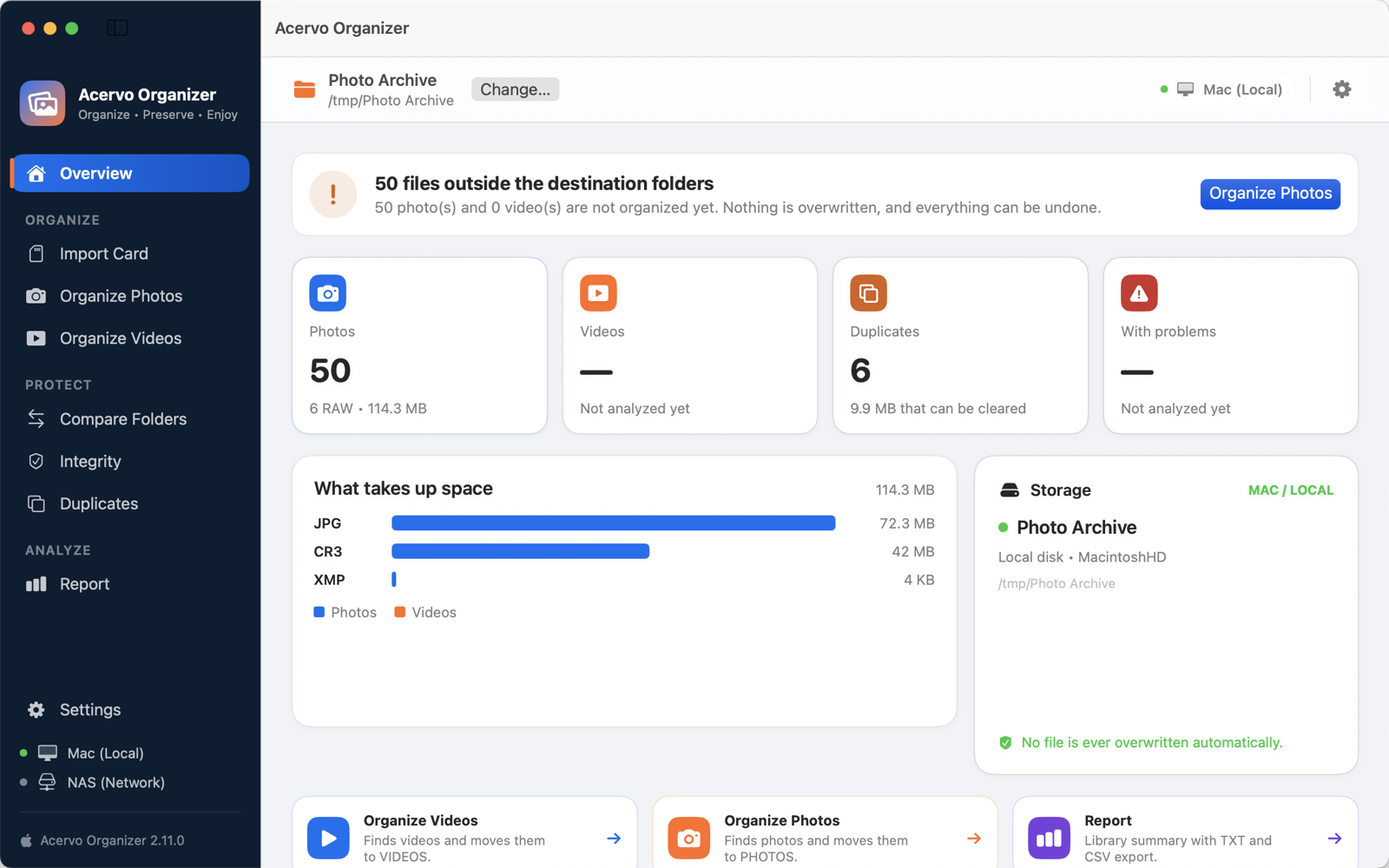
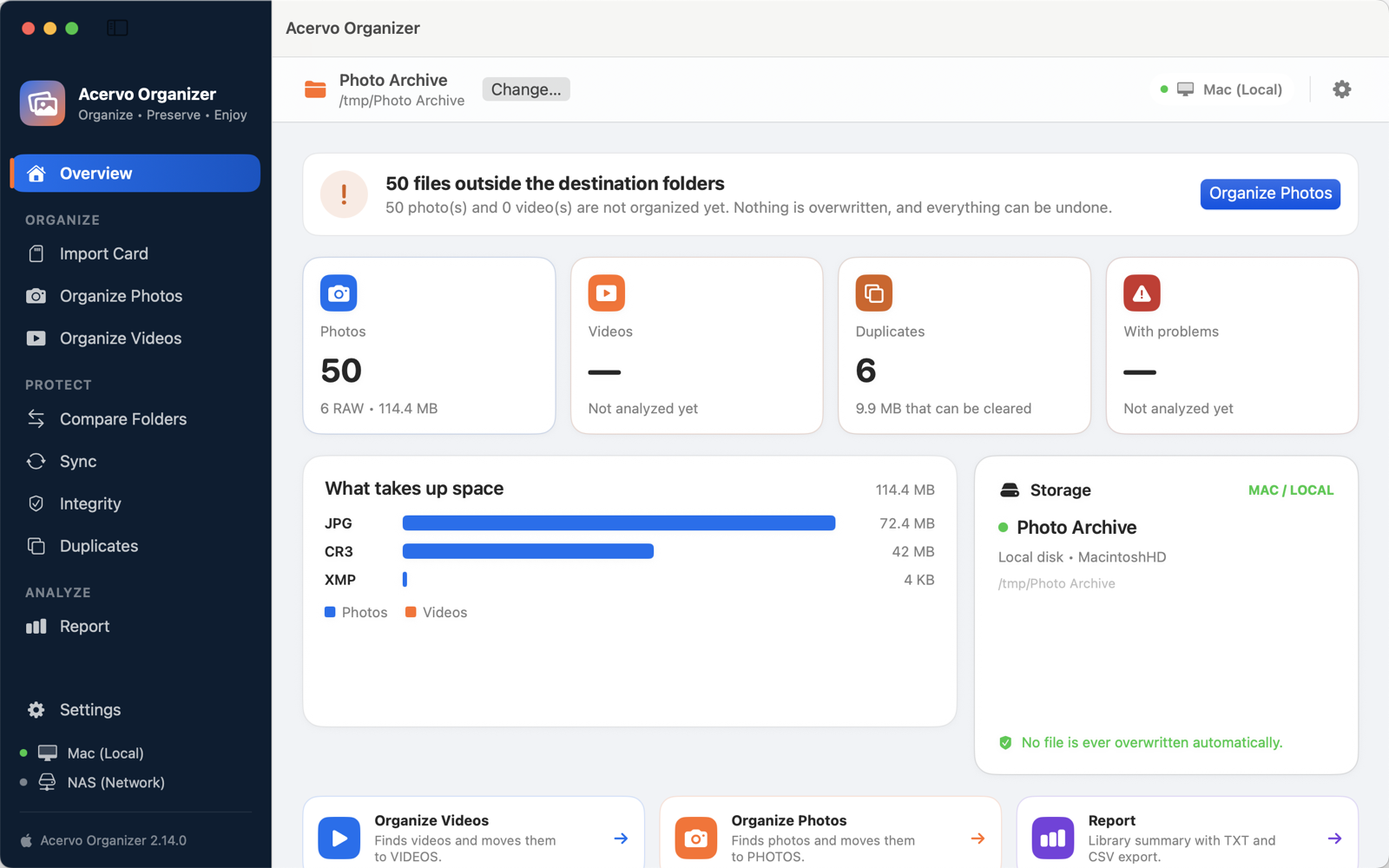
Site: 2.14 publicada (dois sentidos, tarefas, backup agendado e preço novo)
- Sincronização e Backup a R$ 69,90; a compra lista Espelho, Adicionar e
  atualizar, Dois sentidos, tarefas salvas e backup agendado (recursos, preço,
  FAQ, dados estruturados e suporte, pt e en).
- Galeria com as capturas da 2.14 e a tela Sincronizar, em 2×2 (uma coluna no
  celular, sem rolagem lateral).

diff --git a/index.html b/index.html
@@ -65,7 +65,7 @@ document.addEventListener('click', function (e) {
 <link rel="preconnect" href="https://fonts.googleapis.com">
 <link rel="preconnect" href="https://fonts.gstatic.com" crossorigin>
 <link href="https://fonts.googleapis.com/css2?family=Bricolage+Grotesque:opsz,wght@12..96,600;12..96,700;12..96,800&family=Instrument+Sans:wght@400;600;700&display=swap" rel="stylesheet">
-<link rel="stylesheet" href="style.css?v=2026-11-10">
+<link rel="stylesheet" href="style.css?v=2026-11-17">
 <script type="application/ld+json">
 {
   "@context": "https://schema.org",
@@ -78,7 +78,7 @@ document.addEventListener('click', function (e) {
   "url": "https://acervoorganizer.ravendronevideos.com.br/",
   "downloadUrl": "https://apps.apple.com/app/id6821982992?mt=12",
   "inLanguage": "pt-BR",
-  "offers": { "@type": "Offer", "price": "0", "priceCurrency": "BRL", "description": "Download grátis com 14 dias de teste. Desbloqueio único por R$ 89,90 no Brasil; sincronização de pastas na compra única Sincronização e Backup, R$ 49,90." },
+  "offers": { "@type": "Offer", "price": "0", "priceCurrency": "BRL", "description": "Download grátis com 14 dias de teste. Desbloqueio único por R$ 89,90 no Brasil; sincronização de pastas na compra única Sincronização e Backup, R$ 69,90." },
   "author": { "@type": "Person", "name": "Leonardo Nogueira" }
 }
 </script>
@@ -229,6 +229,7 @@ document.addEventListener('click', function (e) {
       <figure><img src="assets/capturas/organizar-fotos.png" alt="Tela Organizar Fotos com o resultado da análise" loading="lazy" onerror="this.closest('figure').remove()"><figcaption>A análise mostra fotos, RAW e XMP antes de qualquer movimentação.</figcaption></figure>
       <figure><img src="assets/capturas/simulacao.png" alt="Janela de simulação com o destino de cada arquivo" loading="lazy" onerror="this.closest('figure').remove()"><figcaption>A simulação lista o destino de cada arquivo.</figcaption></figure>
       <figure><img src="assets/capturas/duplicatas.png" alt="Tela Duplicatas com grupos de arquivos idênticos" loading="lazy" onerror="this.closest('figure').remove()"><figcaption>Duplicatas encontradas pelo conteúdo, com a cópia mais organizada mantida.</figcaption></figure>
+      <figure><img src="assets/capturas/sincronizar.png" alt="Tela Sincronizar com tarefas salvas, agenda e histórico" loading="lazy" onerror="this.closest('figure').remove()"><figcaption>Tarefas salvas e backup agendado, com o histórico de cada execução.</figcaption></figure>
     </div>
   </div>
 </section>
@@ -242,7 +243,7 @@ document.addEventListener('click', function (e) {
       <div><dt>Duplicatas</dt><dd>Arquivos idênticos encontrados pelo conteúdo. As cópias extras vão para a pasta DUPLICADOS.</dd></div>
       <div><dt>Integridade</dt><dd>Arquivos vazios, fotos corrompidas, vídeos incompletos e extensões trocadas, com quarentena opcional. Encontra também as pastas vazias e as remove, se você quiser.</dd></div>
       <div><dt>Comparar pastas</dt><dd>Confira o acervo contra o backup e veja o que falta em cada lado, sem alterar nada.</dd></div>
-      <div><dt>Sincronizar pastas</dt><dd>Deixe o backup no disco externo ou no NAS igual ao acervo, em Espelho ou Adicionar e atualizar. Você revisa o plano antes, cada cópia é conferida por SHA-256 e o que seria substituído ou removido vai para a pasta acervo_versoes. Pode ser desfeita.</dd></div>
+      <div><dt>Sincronizar pastas</dt><dd>Deixe o backup no disco externo ou no NAS igual ao acervo, em Espelho, Adicionar e atualizar ou Dois sentidos (o Mac e o notebook de viagem). Salve tarefas e programe o backup: a cada N horas, em dias e horário ou ao conectar o disco, com o app na barra de menus. Você revisa o plano antes, cada cópia é conferida por SHA-256 e o que seria substituído ou removido vai para a pasta acervo_versoes. Pode ser desfeita.</dd></div>
       <div><dt>Relatório do acervo</dt><dd>Quantidades, formatos, maiores arquivos e pastas mais cheias, com exportação em TXT e CSV.</dd></div>
       <div><dt>Seguro em NAS</dt><dd>Verifica a conexão durante as operações longas e para com segurança se o volume cair.</dd></div>
       <div><dt>Importar cartão</dt><dd>Cópia do cartão conferida por checksum (SHA-256), com segunda cópia opcional em outro disco e pastas por data e sessão. O cartão é só lido.</dd></div>
@@ -276,8 +277,8 @@ document.addEventListener('click', function (e) {
       </div>
       <div class="extra">
         <h3>Sincronização e Backup <span class="opcional">opcional</span></h3>
-        <p class="valor-extra">R$ 49,90 <small>uma vez</small></p>
-        <p>Deixa o backup igual ao acervo, em Espelho ou Adicionar e atualizar, com o plano revisado antes. É separada do desbloqueio, e o teste de 14 dias cobre as duas.</p>
+        <p class="valor-extra">R$ 69,90 <small>uma vez</small></p>
+        <p>Espelho, Adicionar e atualizar e Dois sentidos, tarefas salvas e backup agendado, sempre com o plano revisado antes. É separada do desbloqueio, e o teste de 14 dias cobre as duas.</p>
       </div>
     </div>
     <p class="discreto" style="margin-top:14px;font-size:.92rem">Preço no Brasil. Em outros países, vale o preço exibido pela App Store.</p>
@@ -342,10 +343,10 @@ document.addEventListener('click', function (e) {
   <div class="largura estreito">
     <h2>Perguntas frequentes</h2>
     <div class="perguntas">
-      <details><summary>O Acervo Organizer é grátis?</summary><p>O download é grátis e as primeiras duas semanas vêm com tudo liberado. Depois, análise, simulação, duplicatas, integridade, comparação, relatórios e desfazer continuam grátis. Para continuar organizando e movendo arquivos, o desbloqueio custa R$ 89,90 uma única vez, sem assinatura. A sincronização de pastas em Espelho ou Adicionar e atualizar é uma compra única à parte, de R$ 49,90.</p></details>
+      <details><summary>O Acervo Organizer é grátis?</summary><p>O download é grátis e as primeiras duas semanas vêm com tudo liberado. Depois, análise, simulação, duplicatas, integridade, comparação, relatórios e desfazer continuam grátis. Para continuar organizando e movendo arquivos, o desbloqueio custa R$ 89,90 uma única vez, sem assinatura. A sincronização de pastas (Espelho, Dois sentidos, tarefas e backup agendado) é uma compra única à parte, de R$ 69,90.</p></details>
       <details><summary>O app pode apagar ou estragar meus arquivos?</summary><p>Não. Ele nunca apaga e nunca sobrescreve. Duplicatas e arquivos com problema são movidos para pastas próprias, e toda organização pode ser desfeita. Entre discos diferentes, o app copia, confere e só então remove a origem.</p></details>
       <details><summary>Funciona com NAS?</summary><p>Sim, com o volume do NAS montado no Mac, como Synology e QNAP pela rede. O app verifica a conexão durante as operações longas e para com segurança se ela cair; o que já foi movido fica registrado e pode ser desfeito.</p></details>
-      <details><summary>O app faz backup do acervo?</summary><p>Ele mantém o backup em dia: compara o acervo com a pasta do backup, num disco externo ou no NAS, e deixa as duas iguais. Copiar para o backup o que falta nele vem no desbloqueio. Os modos Espelho e Adicionar e atualizar ficam na compra Sincronização e Backup, de R$ 49,90 uma única vez. Antes de qualquer cópia você revisa o plano, cada cópia é conferida por SHA-256 e nada é apagado: versões substituídas e arquivos que só existiam no backup vão para a pasta acervo_versoes. A sincronização pode ser desfeita.</p></details>
+      <details><summary>O app faz backup do acervo?</summary><p>Ele mantém o backup em dia: compara o acervo com a pasta do backup, num disco externo ou no NAS, e deixa as duas iguais. Copiar para o backup o que falta nele vem no desbloqueio. Os modos Espelho, Adicionar e atualizar e Dois sentidos, as tarefas salvas e o backup agendado (a cada N horas, em dias e horário ou ao conectar o disco) ficam na compra Sincronização e Backup, de R$ 69,90 uma única vez. Antes de qualquer cópia você revisa o plano, cada cópia é conferida por SHA-256 e nada é apagado: versões substituídas e arquivos que só existiam no backup vão para a pasta acervo_versoes. A sincronização pode ser desfeita.</p></details>
       <details><summary>Funciona no meu Mac?</summary><p>Funciona em Macs com macOS 13 ou mais novo, com processador Apple ou Intel.</p></details>
       <details><summary>E o meu catálogo do Lightroom?</summary><p>Os arquivos XMP acompanham as fotos. Se as pastas já estão num catálogo do Lightroom Classic, mover as fotos fora do Lightroom faz o catálogo perder o caminho; depois de organizar, use no Lightroom a opção de localizar a pasta ausente e aponte o novo lugar.</p></details>
       <details><summary>Quais formatos são reconhecidos?</summary><p>Fotos em JPG, HEIC, PNG, TIFF e nos principais formatos RAW (CR3, CR2, NEF, ARW, RAF, DNG, ORF, RW2 e outros), com XMP. Vídeos em MOV, MP4, MTS, MKV, AVI e outros, com .SRT, .LRF, .LRV e .THM. Vídeos 360° da DJI (.OSV) e da Insta360 (.insv e .insp).</p></details>
@@ -392,10 +393,10 @@ document.addEventListener('click', function (e) {
   "@context": "https://schema.org",
   "@type": "FAQPage",
   "mainEntity": [
-    { "@type": "Question", "name": "O Acervo Organizer é grátis?", "acceptedAnswer": { "@type": "Answer", "text": "O download é grátis e as primeiras duas semanas vêm com tudo liberado. Depois, análise, simulação, duplicatas, integridade, comparação, relatórios e desfazer continuam grátis. Para continuar organizando e movendo arquivos, o desbloqueio custa R$ 89,90 uma única vez, sem assinatura. A sincronização de pastas em Espelho ou Adicionar e atualizar é uma compra única à parte, de R$ 49,90." } },
+    { "@type": "Question", "name": "O Acervo Organizer é grátis?", "acceptedAnswer": { "@type": "Answer", "text": "O download é grátis e as primeiras duas semanas vêm com tudo liberado. Depois, análise, simulação, duplicatas, integridade, comparação, relatórios e desfazer continuam grátis. Para continuar organizando e movendo arquivos, o desbloqueio custa R$ 89,90 uma única vez, sem assinatura. A sincronização de pastas (Espelho, Dois sentidos, tarefas e backup agendado) é uma compra única à parte, de R$ 69,90." } },
     { "@type": "Question", "name": "O app pode apagar ou estragar meus arquivos?", "acceptedAnswer": { "@type": "Answer", "text": "Não. Ele nunca apaga e nunca sobrescreve. Duplicatas e arquivos com problema são movidos para pastas próprias, e toda organização pode ser desfeita." } },
     { "@type": "Question", "name": "Funciona com NAS?", "acceptedAnswer": { "@type": "Answer", "text": "Sim, com o volume do NAS montado no Mac. O app verifica a conexão durante as operações longas e para com segurança se ela cair." } },
-    { "@type": "Question", "name": "O app faz backup do acervo?", "acceptedAnswer": { "@type": "Answer", "text": "Ele mantém o backup em dia: compara o acervo com a pasta do backup, num disco externo ou no NAS, e deixa as duas iguais. Copiar o que falta vem no desbloqueio; Espelho e Adicionar e atualizar ficam na compra Sincronização e Backup, de R$ 49,90 uma única vez. Nada é apagado e a sincronização pode ser desfeita." } },
+    { "@type": "Question", "name": "O app faz backup do acervo?", "acceptedAnswer": { "@type": "Answer", "text": "Ele mantém o backup em dia: compara o acervo com a pasta do backup, num disco externo ou no NAS, e deixa as duas iguais. Copiar o que falta vem no desbloqueio; Espelho, Dois sentidos, tarefas e backup agendado ficam na compra Sincronização e Backup, de R$ 69,90 uma única vez. Nada é apagado e a sincronização pode ser desfeita." } },
     { "@type": "Question", "name": "Funciona no meu Mac?", "acceptedAnswer": { "@type": "Answer", "text": "Funciona em Macs com macOS 13 ou mais novo, com processador Apple ou Intel." } },
     { "@type": "Question", "name": "O app coleta meus dados?", "acceptedAnswer": { "@type": "Answer", "text": "Não. Não há conta, anúncios, análise de uso ou rastreamento, e suas fotos nunca saem dos seus discos." } }
   ]

diff --git a/en/index.html b/en/index.html
@@ -67,7 +67,7 @@ document.addEventListener('click', function (e) {
 <link rel="preconnect" href="https://fonts.googleapis.com">
 <link rel="preconnect" href="https://fonts.gstatic.com" crossorigin>
 <link href="https://fonts.googleapis.com/css2?family=Bricolage+Grotesque:opsz,wght@12..96,600;12..96,700;12..96,800&family=Instrument+Sans:wght@400;600;700&display=swap" rel="stylesheet">
-<link rel="stylesheet" href="../style.css?v=2026-11-10">
+<link rel="stylesheet" href="../style.css?v=2026-11-17">
 <script type="application/ld+json">
 {
   "@context": "https://schema.org",
@@ -232,6 +232,7 @@ document.addEventListener('click', function (e) {
       <figure><img src="../assets/capturas/en/organize-photos.png" alt="Organize Photos screen with the analysis result" loading="lazy" onerror="this.closest('figure').remove()"><figcaption>The analysis shows photos, RAW files and XMP sidecars before anything moves.</figcaption></figure>
       <figure><img src="../assets/capturas/en/simulation.png" alt="Simulation window with the destination of each file" loading="lazy" onerror="this.closest('figure').remove()"><figcaption>The simulation lists where each file goes.</figcaption></figure>
       <figure><img src="../assets/capturas/en/duplicates.png" alt="Duplicates screen with groups of identical files" loading="lazy" onerror="this.closest('figure').remove()"><figcaption>Duplicates found by content, keeping the best-organized copy.</figcaption></figure>
+      <figure><img src="../assets/capturas/en/sync.png" alt="Sync screen with saved tasks, schedule and history" loading="lazy" onerror="this.closest('figure').remove()"><figcaption>Saved tasks and scheduled backup, with the history of every run.</figcaption></figure>
     </div>
   </div>
 </section>
@@ -246,7 +247,7 @@ document.addEventListener('click', function (e) {
       <div><dt>Duplicates</dt><dd>Identical files found by content. Extra copies go to the DUPLICATES folder.</dd></div>
       <div><dt>Integrity</dt><dd>Empty files, corrupted photos, incomplete videos and wrong extensions, with optional quarantine. It also finds empty folders and removes them, if you want.</dd></div>
       <div><dt>Compare folders</dt><dd>Check your library against the backup and see what's missing on each side, without changing anything.</dd></div>
-      <div><dt>Sync folders</dt><dd>Make the backup on an external drive or NAS match your library, in Mirror or Add and Update mode. You review the plan first, every copy is verified by SHA-256, and anything that would be replaced or removed goes to the acervo_versoes folder. It can be undone.</dd></div>
+      <div><dt>Sync folders</dt><dd>Make the backup on an external drive or NAS match your library, in Mirror, Add and Update or Two-Way mode (your Mac and your travel laptop). Save tasks and schedule the backup: every N hours, on set days and times, or when the drive connects, with the app in the menu bar. You review the plan first, every copy is verified by SHA-256, and anything that would be replaced or removed goes to the acervo_versoes folder. It can be undone.</dd></div>
       <div><dt>Library report</dt><dd>Counts, formats, largest files and fullest folders, exported as TXT and CSV.</dd></div>
       <div><dt>Safe on a NAS</dt><dd>Checks the connection during long operations and stops safely if the volume drops.</dd></div>
     </dl>
@@ -280,7 +281,7 @@ document.addEventListener('click', function (e) {
       <div class="extra">
         <h3>Sync &amp; Backup <span class="opcional">optional</span></h3>
         <p class="valor-extra">Pay once</p>
-        <p>Keeps your backup matching your library, in Mirror or Add and Update mode, with the plan reviewed first. It's separate from the unlock, and the 14-day trial covers both.</p>
+        <p>Mirror, Add and Update and Two-Way sync, saved tasks and scheduled backup, always with the plan reviewed first. It's separate from the unlock, and the 14-day trial covers both.</p>
       </div>
     </div>
     <p class="discreto" style="margin-top:14px;font-size:.92rem">The App Store shows the price in your country's currency before you buy.</p>
@@ -345,10 +346,10 @@ document.addEventListener('click', function (e) {
   <div class="largura estreito">
     <h2>Frequently asked questions</h2>
     <div class="perguntas">
-      <details><summary>Is Acervo Organizer free?</summary><p>The download is free and the first two weeks come with everything unlocked. After that, analysis, simulation, duplicates, integrity, comparison, reports and undo stay free. To keep organizing, importing and moving files, the unlock is a one-time purchase, no subscription. Folder sync in Mirror or Add and Update mode is a separate one-time purchase, Sync &amp; Backup.</p></details>
+      <details><summary>Is Acervo Organizer free?</summary><p>The download is free and the first two weeks come with everything unlocked. After that, analysis, simulation, duplicates, integrity, comparison, reports and undo stay free. To keep organizing, importing and moving files, the unlock is a one-time purchase, no subscription. Folder sync (Mirror, Two-Way, saved tasks and scheduled backup) is a separate one-time purchase, Sync &amp; Backup.</p></details>
       <details><summary>Can the app delete or damage my files?</summary><p>No. It never deletes and never overwrites. Duplicates and problem files are moved to their own folders, and every organization can be undone. Between different drives, the app copies, verifies, and only then removes the original.</p></details>
       <details><summary>Does it work with a NAS?</summary><p>Yes, with the NAS volume mounted on your Mac, such as a Synology or QNAP over the network. The app checks the connection during long operations and stops safely if it drops; what was already moved is recorded and can be undone.</p></details>
-      <details><summary>Does the app back up my library?</summary><p>It keeps your backup up to date: it compares your library with the backup folder, on an external drive or a NAS, and makes them match. Copying what's missing to the backup comes with the unlock. Mirror and Add and Update modes are in the Sync &amp; Backup purchase, paid once. You review the plan before anything is copied, every copy is verified by SHA-256 and nothing is deleted: replaced versions and files that only existed in the backup go to the acervo_versoes folder. The sync can be undone.</p></details>
+      <details><summary>Does the app back up my library?</summary><p>It keeps your backup up to date: it compares your library with the backup folder, on an external drive or a NAS, and makes them match. Copying what's missing to the backup comes with the unlock. Mirror, Add and Update and Two-Way modes, saved tasks and scheduled backup (every N hours, on set days and times, or when the drive connects) are in the Sync &amp; Backup purchase, paid once. You review the plan before anything is copied, every copy is verified by SHA-256 and nothing is deleted: replaced versions and files that only existed in the backup go to the acervo_versoes folder. The sync can be undone.</p></details>
       <details><summary>Does it work on my Mac?</summary><p>It works on Macs with macOS 13 or later, with Apple silicon or Intel processors.</p></details>
       <details><summary>What about my Lightroom catalog?</summary><p>XMP files travel with the photos. If the folders are already in a Lightroom Classic catalog, moving photos outside Lightroom makes the catalog lose track of them; after organizing, use Lightroom's option to find the missing folder and point it to the new place.</p></details>
       <details><summary>Which formats are supported?</summary><p>Photos in JPG, HEIC, PNG, TIFF and the main RAW formats (CR3, CR2, NEF, ARW, RAF, DNG, ORF, RW2 and others), with XMP. Videos in MOV, MP4, MTS, MKV, AVI and others, with .SRT, .LRF, .LRV and .THM. 360° videos from DJI (.OSV) and Insta360 (.insv and .insp).</p></details>
@@ -395,10 +396,10 @@ document.addEventListener('click', function (e) {
   "@context": "https://schema.org",
   "@type": "FAQPage",
   "mainEntity": [
-    { "@type": "Question", "name": "Is Acervo Organizer free?", "acceptedAnswer": { "@type": "Answer", "text": "The download is free and the first two weeks come with everything unlocked. After that, analysis, simulation, duplicates, integrity, comparison, reports and undo stay free. To keep organizing, importing and moving files, the unlock is a one-time purchase, no subscription. Folder sync in Mirror or Add and Update mode is a separate one-time purchase, Sync & Backup." } },
+    { "@type": "Question", "name": "Is Acervo Organizer free?", "acceptedAnswer": { "@type": "Answer", "text": "The download is free and the first two weeks come with everything unlocked. After that, analysis, simulation, duplicates, integrity, comparison, reports and undo stay free. To keep organizing, importing and moving files, the unlock is a one-time purchase, no subscription. Folder sync (Mirror, Two-Way, saved tasks and scheduled backup) is a separate one-time purchase, Sync & Backup." } },
     { "@type": "Question", "name": "Can the app delete or damage my files?", "acceptedAnswer": { "@type": "Answer", "text": "No. It never deletes and never overwrites. Duplicates and problem files are moved to their own folders, and every organization can be undone." } },
     { "@type": "Question", "name": "Does it work with a NAS?", "acceptedAnswer": { "@type": "Answer", "text": "Yes, with the NAS volume mounted on your Mac. The app checks the connection during long operations and stops safely if it drops." } },
-    { "@type": "Question", "name": "Does the app back up my library?", "acceptedAnswer": { "@type": "Answer", "text": "It keeps your backup up to date: it compares your library with the backup folder, on an external drive or a NAS, and makes them match. Copying what's missing comes with the unlock; Mirror and Add and Update modes are in the one-time Sync & Backup purchase. Nothing is deleted and the sync can be undone." } },
+    { "@type": "Question", "name": "Does the app back up my library?", "acceptedAnswer": { "@type": "Answer", "text": "It keeps your backup up to date: it compares your library with the backup folder, on an external drive or a NAS, and makes them match. Copying what's missing comes with the unlock; Mirror, Two-Way, saved tasks and scheduled backup are in the one-time Sync & Backup purchase. Nothing is deleted and the sync can be undone." } },
     { "@type": "Question", "name": "Does it work on my Mac?", "acceptedAnswer": { "@type": "Answer", "text": "It works on Macs with macOS 13 or later, with Apple silicon or Intel processors." } },
     { "@type": "Question", "name": "Does the app collect my data?", "acceptedAnswer": { "@type": "Answer", "text": "No. There is no account, no ads, no usage analytics and no tracking, and your photos never leave your drives." } }
   ]

diff --git a/support.html b/support.html
@@ -54,7 +54,7 @@ document.addEventListener('click', function (e) {
 <link rel="preconnect" href="https://fonts.googleapis.com">
 <link rel="preconnect" href="https://fonts.gstatic.com" crossorigin>
 <link href="https://fonts.googleapis.com/css2?family=Bricolage+Grotesque:opsz,wght@12..96,600;12..96,700;12..96,800&family=Instrument+Sans:wght@400;600;700&display=swap" rel="stylesheet">
-<link rel="stylesheet" href="style.css?v=2026-11-10">
+<link rel="stylesheet" href="style.css?v=2026-11-17">
 </head>
 <body>
 <header class="topo">
@@ -79,7 +79,7 @@ document.addEventListener('click', function (e) {
 <p><strong>A conexão com o NAS caiu durante a organização.</strong><br>O app para com segurança. Tudo o que já foi movido continua registrado e pode ser desfeito. Reconecte o NAS e analise a pasta de novo para continuar.</p>
 <p><strong>Os arquivos .SRT e .LRF do drone ficam separados dos vídeos?</strong><br>Não. A telemetria (.SRT), os proxies (.LRF/.LRV) e as miniaturas (.THM) acompanham cada vídeo. Em Configurações › Organização de vídeos, escolha se os proxies vão junto, para uma pasta separada (_PROXIES) ou ficam onde estão.</p>
 <p><strong>O app pede a pasta de novo ao abrir.</strong><br>Se a pasta estiver em um disco externo ou NAS desconectado, conecte-o e escolha a pasta novamente. O app passa a lembrar dela.</p>
-<p><strong>Como funcionam o teste grátis e o desbloqueio?</strong><br>Todas as funções ficam liberadas por 14 dias. Depois, análise, simulação, duplicatas, integridade, comparação de pastas, relatórios e desfazer continuam gratuitos. Para continuar organizando e movendo arquivos, o desbloqueio é uma compra única, sem assinatura. A sincronização de pastas em Espelho ou Adicionar e atualizar fica na compra única Sincronização e Backup, separada do desbloqueio. Trocou de Mac ou reinstalou? Use Configurações › Licença › Ver opções… › Restaurar compras.</p>
+<p><strong>Como funcionam o teste grátis e o desbloqueio?</strong><br>Todas as funções ficam liberadas por 14 dias. Depois, análise, simulação, duplicatas, integridade, comparação de pastas, relatórios e desfazer continuam gratuitos. Para continuar organizando e movendo arquivos, o desbloqueio é uma compra única, sem assinatura. A sincronização de pastas (Espelho, Dois sentidos, tarefas salvas e backup agendado) fica na compra única Sincronização e Backup, separada do desbloqueio. Trocou de Mac ou reinstalou? Use Configurações › Licença › Ver opções… › Restaurar compras.</p>
     </article>
     <article class="idioma" lang="en">
 <h1>Support</h1>
@@ -92,7 +92,7 @@ document.addEventListener('click', function (e) {
 <p><strong>My NAS disconnected while organizing.</strong><br>The app stops safely. Everything already moved is recorded and can be undone. Reconnect the NAS and analyze the folder again to continue.</p>
 <p><strong>Are my drone’s .SRT and .LRF files separated from the videos?</strong><br>No. Telemetry (.SRT), proxies (.LRF/.LRV) and thumbnails (.THM) stay with each video. In Configurações › Organização de vídeos (Settings › Video organization), choose whether proxies go with the video, to a separate folder (_PROXIES), or stay where they are.</p>
 <p><strong>The app asks for my folder again when it opens.</strong><br>If the folder is on an external drive or a disconnected NAS, connect it and choose the folder again. The app will remember it.</p>
-<p><strong>How do the free trial and the unlock work?</strong><br>Every feature is available for 14 days. Afterwards, analysis, simulation, duplicates, integrity checks, folder comparison, reports and undo remain free. To keep organizing and moving files, the unlock is a one-time purchase, no subscription. Folder sync in Mirror or Add and Update mode is in the separate one-time Sync &amp; Backup purchase. New Mac or reinstalled? Use Configurações › Licença › Ver opções… › Restaurar compras (Settings › License › See options… › Restore purchases).</p>
+<p><strong>How do the free trial and the unlock work?</strong><br>Every feature is available for 14 days. Afterwards, analysis, simulation, duplicates, integrity checks, folder comparison, reports and undo remain free. To keep organizing and moving files, the unlock is a one-time purchase, no subscription. Folder sync (Mirror, Two-Way, saved tasks and scheduled backup) is in the separate one-time Sync &amp; Backup purchase. New Mac or reinstalled? Use Configurações › Licença › Ver opções… › Restaurar compras (Settings › License › See options… › Restore purchases).</p>
     </article>
   </div>
 </main>

diff --git a/en/support.html b/en/support.html
@@ -54,7 +54,7 @@ document.addEventListener('click', function (e) {
 <link rel="preconnect" href="https://fonts.googleapis.com">
 <link rel="preconnect" href="https://fonts.gstatic.com" crossorigin>
 <link href="https://fonts.googleapis.com/css2?family=Bricolage+Grotesque:opsz,wght@12..96,600;12..96,700;12..96,800&family=Instrument+Sans:wght@400;600;700&display=swap" rel="stylesheet">
-<link rel="stylesheet" href="../style.css?v=2026-11-10">
+<link rel="stylesheet" href="../style.css?v=2026-11-17">
 </head>
 <body>
 <header class="topo">
@@ -81,7 +81,7 @@ document.addEventListener('click', function (e) {
 <p><strong>How does Import Card work?</strong><br>The app copies the card to folders by date and session, checks every copy by checksum (SHA-256) and can make a second copy on another drive. The card is only read, files already imported are skipped, and nothing at the destination is overwritten. When everything is verified, the app can eject the card.</p>
 <p><strong>The app asks for my folder again when it opens.</strong><br>If the folder is on an external drive or a disconnected NAS, connect it and choose the folder again. The app will remember it.</p>
 <p><strong>How do I use the app in English or in Portuguese?</strong><br>The app follows your macOS language. To choose a language just for Acervo Organizer, go to System Settings › General › Language &amp; Region › Applications, add Acervo Organizer and pick a language, then reopen the app.</p>
-<p><strong>How do the free trial and the unlock work?</strong><br>Every feature is available for 14 days. Afterwards, analysis, simulation, duplicates, integrity checks, folder comparison, reports and undo remain free. To keep organizing, importing and moving files, the unlock is a one-time purchase, no subscription. Folder sync in Mirror or Add and Update mode is in the separate one-time Sync &amp; Backup purchase. New Mac or reinstalled? Use Settings › License › View Options… › Restore Purchases.</p>
+<p><strong>How do the free trial and the unlock work?</strong><br>Every feature is available for 14 days. Afterwards, analysis, simulation, duplicates, integrity checks, folder comparison, reports and undo remain free. To keep organizing, importing and moving files, the unlock is a one-time purchase, no subscription. Folder sync (Mirror, Two-Way, saved tasks and scheduled backup) is in the separate one-time Sync &amp; Backup purchase. New Mac or reinstalled? Use Settings › License › View Options… › Restore Purchases.</p>
     </article>
   </div>
 </main>

diff --git a/style.css b/style.css
@@ -152,7 +152,7 @@ p { margin: 0; max-width: 68ch; }
 .meio-cta { margin-top: 44px; display: flex; flex-wrap: wrap; align-items: center; gap: 16px 24px; }
 
 /* Capturas reais (opcionais: aparecem quando os arquivos existem) */
-.galeria { margin-top: 40px; display: grid; grid-template-columns: repeat(auto-fit, minmax(300px, 1fr)); gap: 24px; }
+.galeria { margin-top: 40px; display: grid; grid-template-columns: repeat(auto-fit, minmax(min(420px, 100%), 1fr)); gap: 24px; }
 .galeria figure { margin: 0; }
 .galeria img { border-radius: 12px; border: 1px solid var(--nevoa); display: block; }
 .galeria figcaption { margin-top: 10px; font-size: .95rem; color: var(--ardosia); }

diff --git a/en/privacy.html b/en/privacy.html
@@ -54,7 +54,7 @@ document.addEventListener('click', function (e) {
 <link rel="preconnect" href="https://fonts.googleapis.com">
 <link rel="preconnect" href="https://fonts.gstatic.com" crossorigin>
 <link href="https://fonts.googleapis.com/css2?family=Bricolage+Grotesque:opsz,wght@12..96,600;12..96,700;12..96,800&family=Instrument+Sans:wght@400;600;700&display=swap" rel="stylesheet">
-<link rel="stylesheet" href="../style.css?v=2026-11-10">
+<link rel="stylesheet" href="../style.css?v=2026-11-17">
 </head>
 <body>
 <header class="topo">

diff --git a/404.html b/404.html
@@ -51,7 +51,7 @@ document.addEventListener('click', function (e) {
 <link rel="preconnect" href="https://fonts.googleapis.com">
 <link rel="preconnect" href="https://fonts.gstatic.com" crossorigin>
 <link href="https://fonts.googleapis.com/css2?family=Bricolage+Grotesque:opsz,wght@12..96,600;12..96,700;12..96,800&family=Instrument+Sans:wght@400;600;700&display=swap" rel="stylesheet">
-<link rel="stylesheet" href="/style.css?v=2026-11-10">
+<link rel="stylesheet" href="/style.css?v=2026-11-17">
 </head>
 <body>
 <header class="topo">

diff --git a/privacy.html b/privacy.html
@@ -54,7 +54,7 @@ document.addEventListener('click', function (e) {
 <link rel="preconnect" href="https://fonts.googleapis.com">
 <link rel="preconnect" href="https://fonts.gstatic.com" crossorigin>
 <link href="https://fonts.googleapis.com/css2?family=Bricolage+Grotesque:opsz,wght@12..96,600;12..96,700;12..96,800&family=Instrument+Sans:wght@400;600;700&display=swap" rel="stylesheet">
-<link rel="stylesheet" href="style.css?v=2026-11-10">
+<link rel="stylesheet" href="style.css?v=2026-11-17">
 </head>
 <body>
 <header class="topo">
